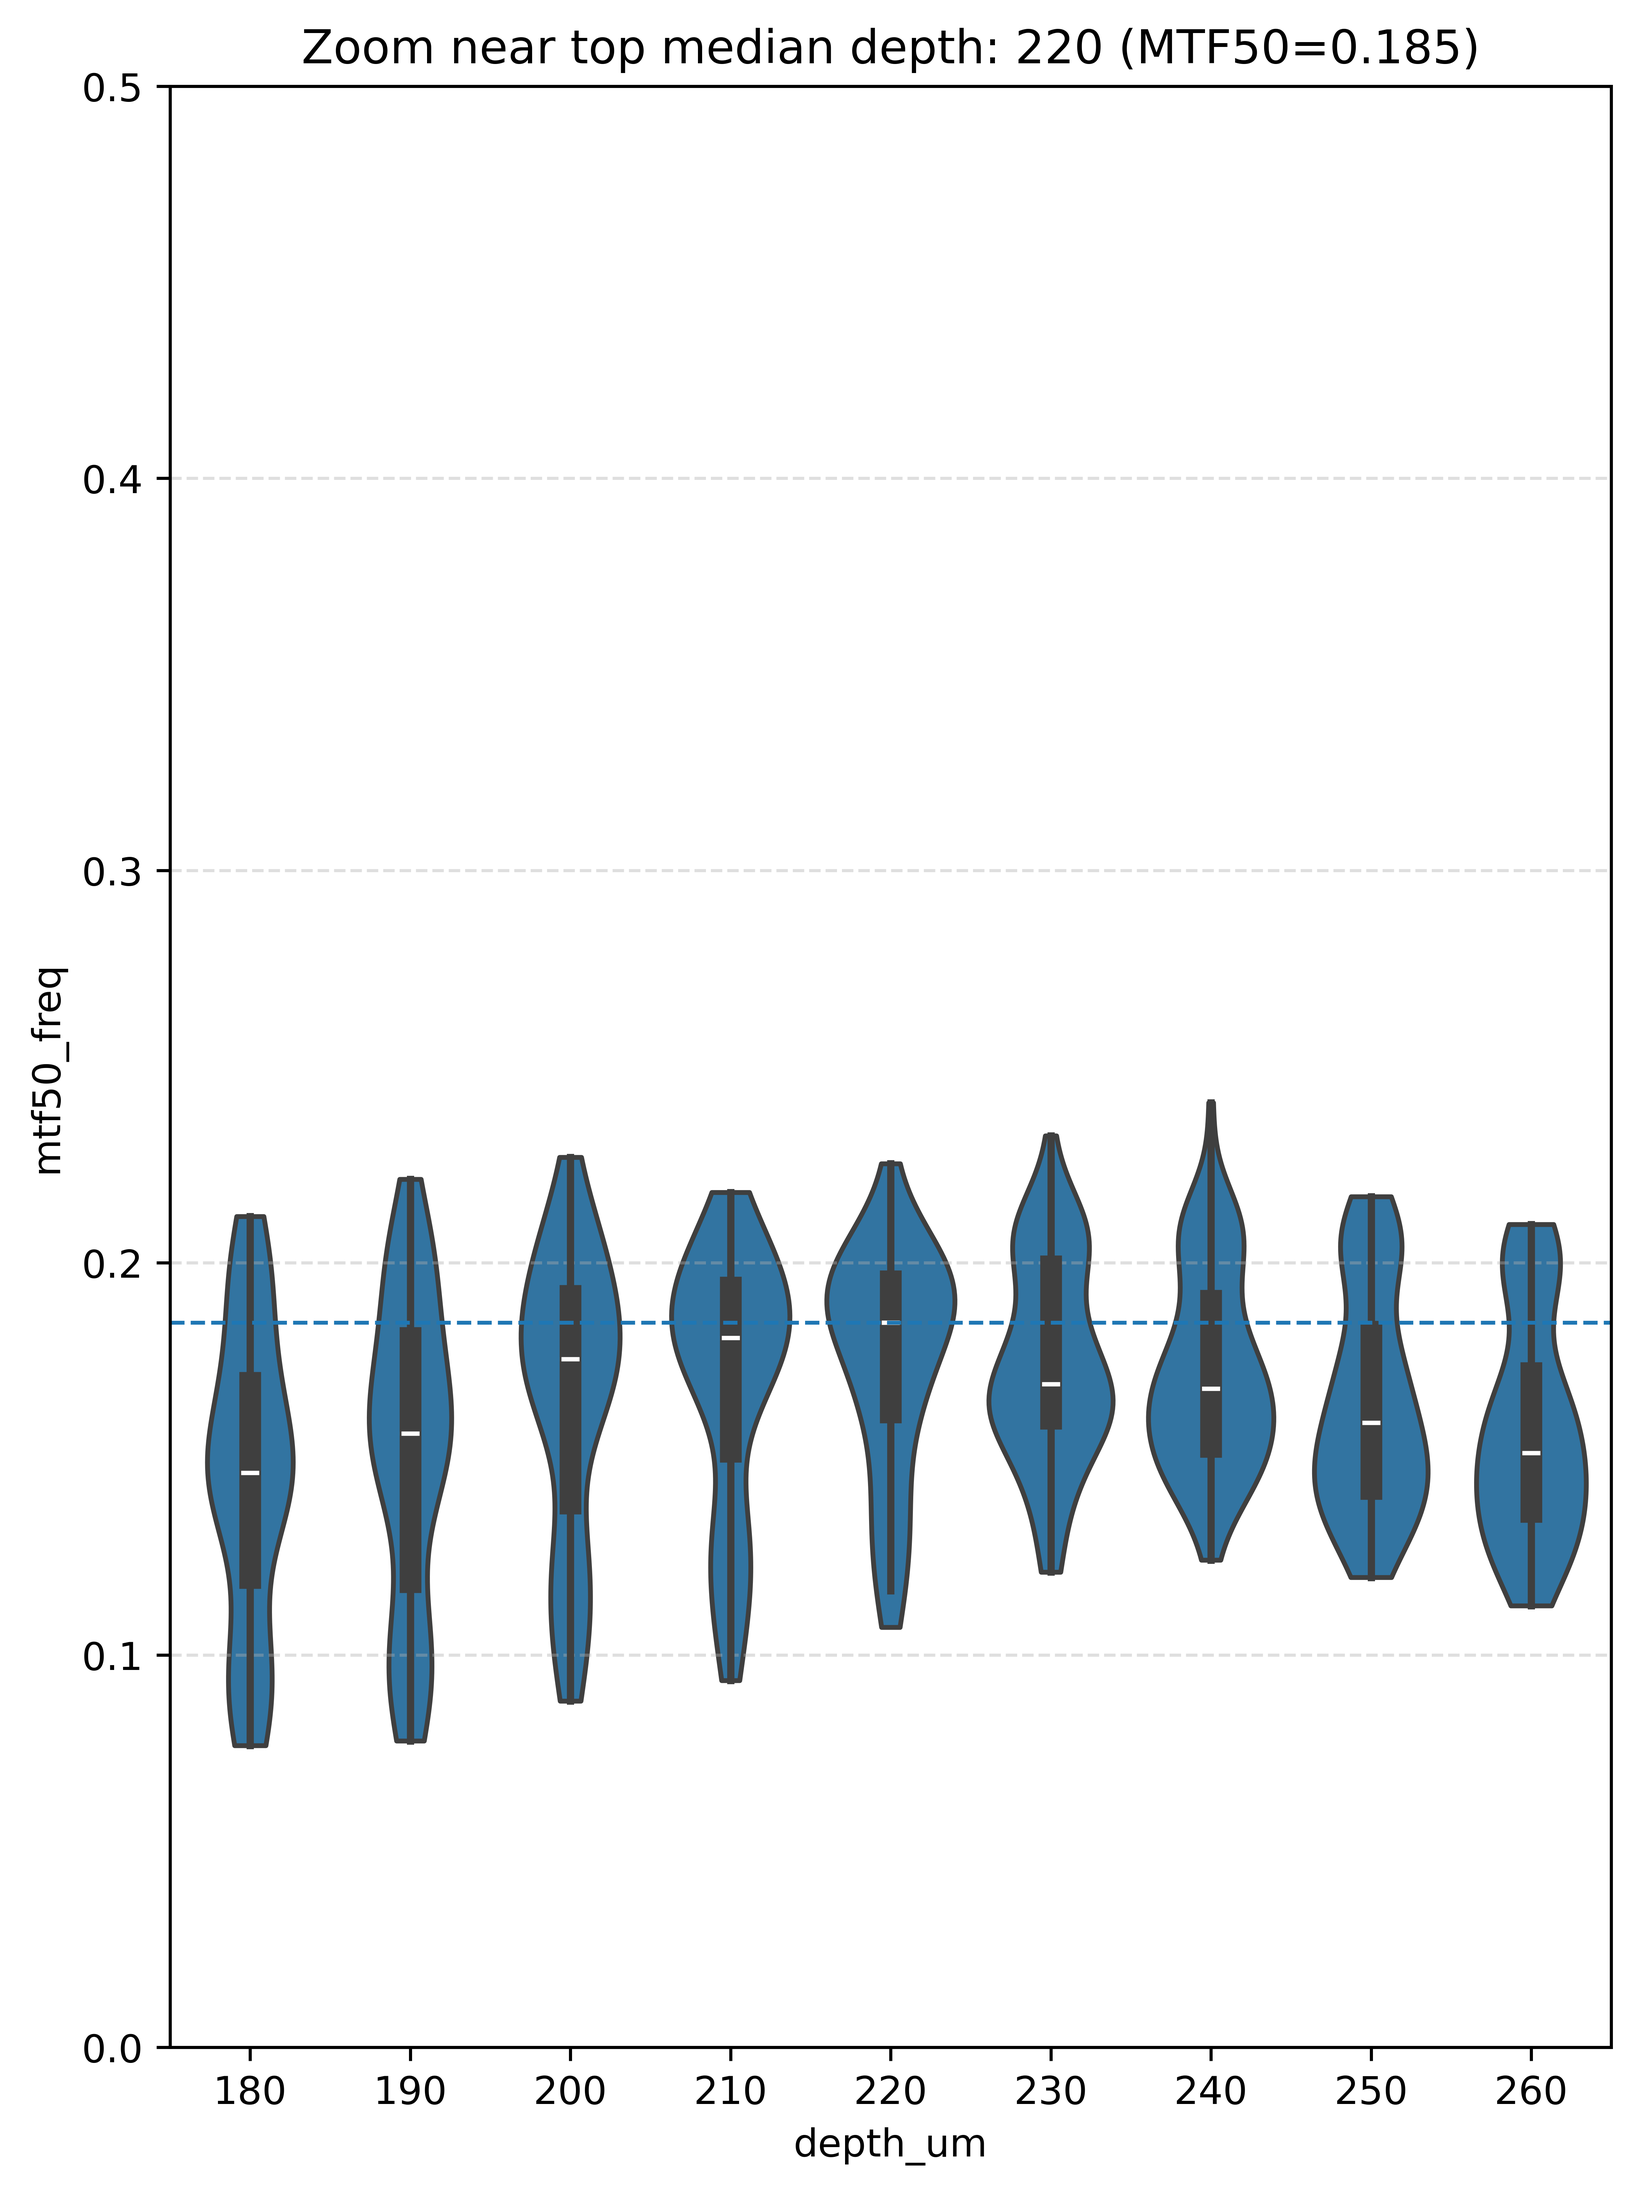
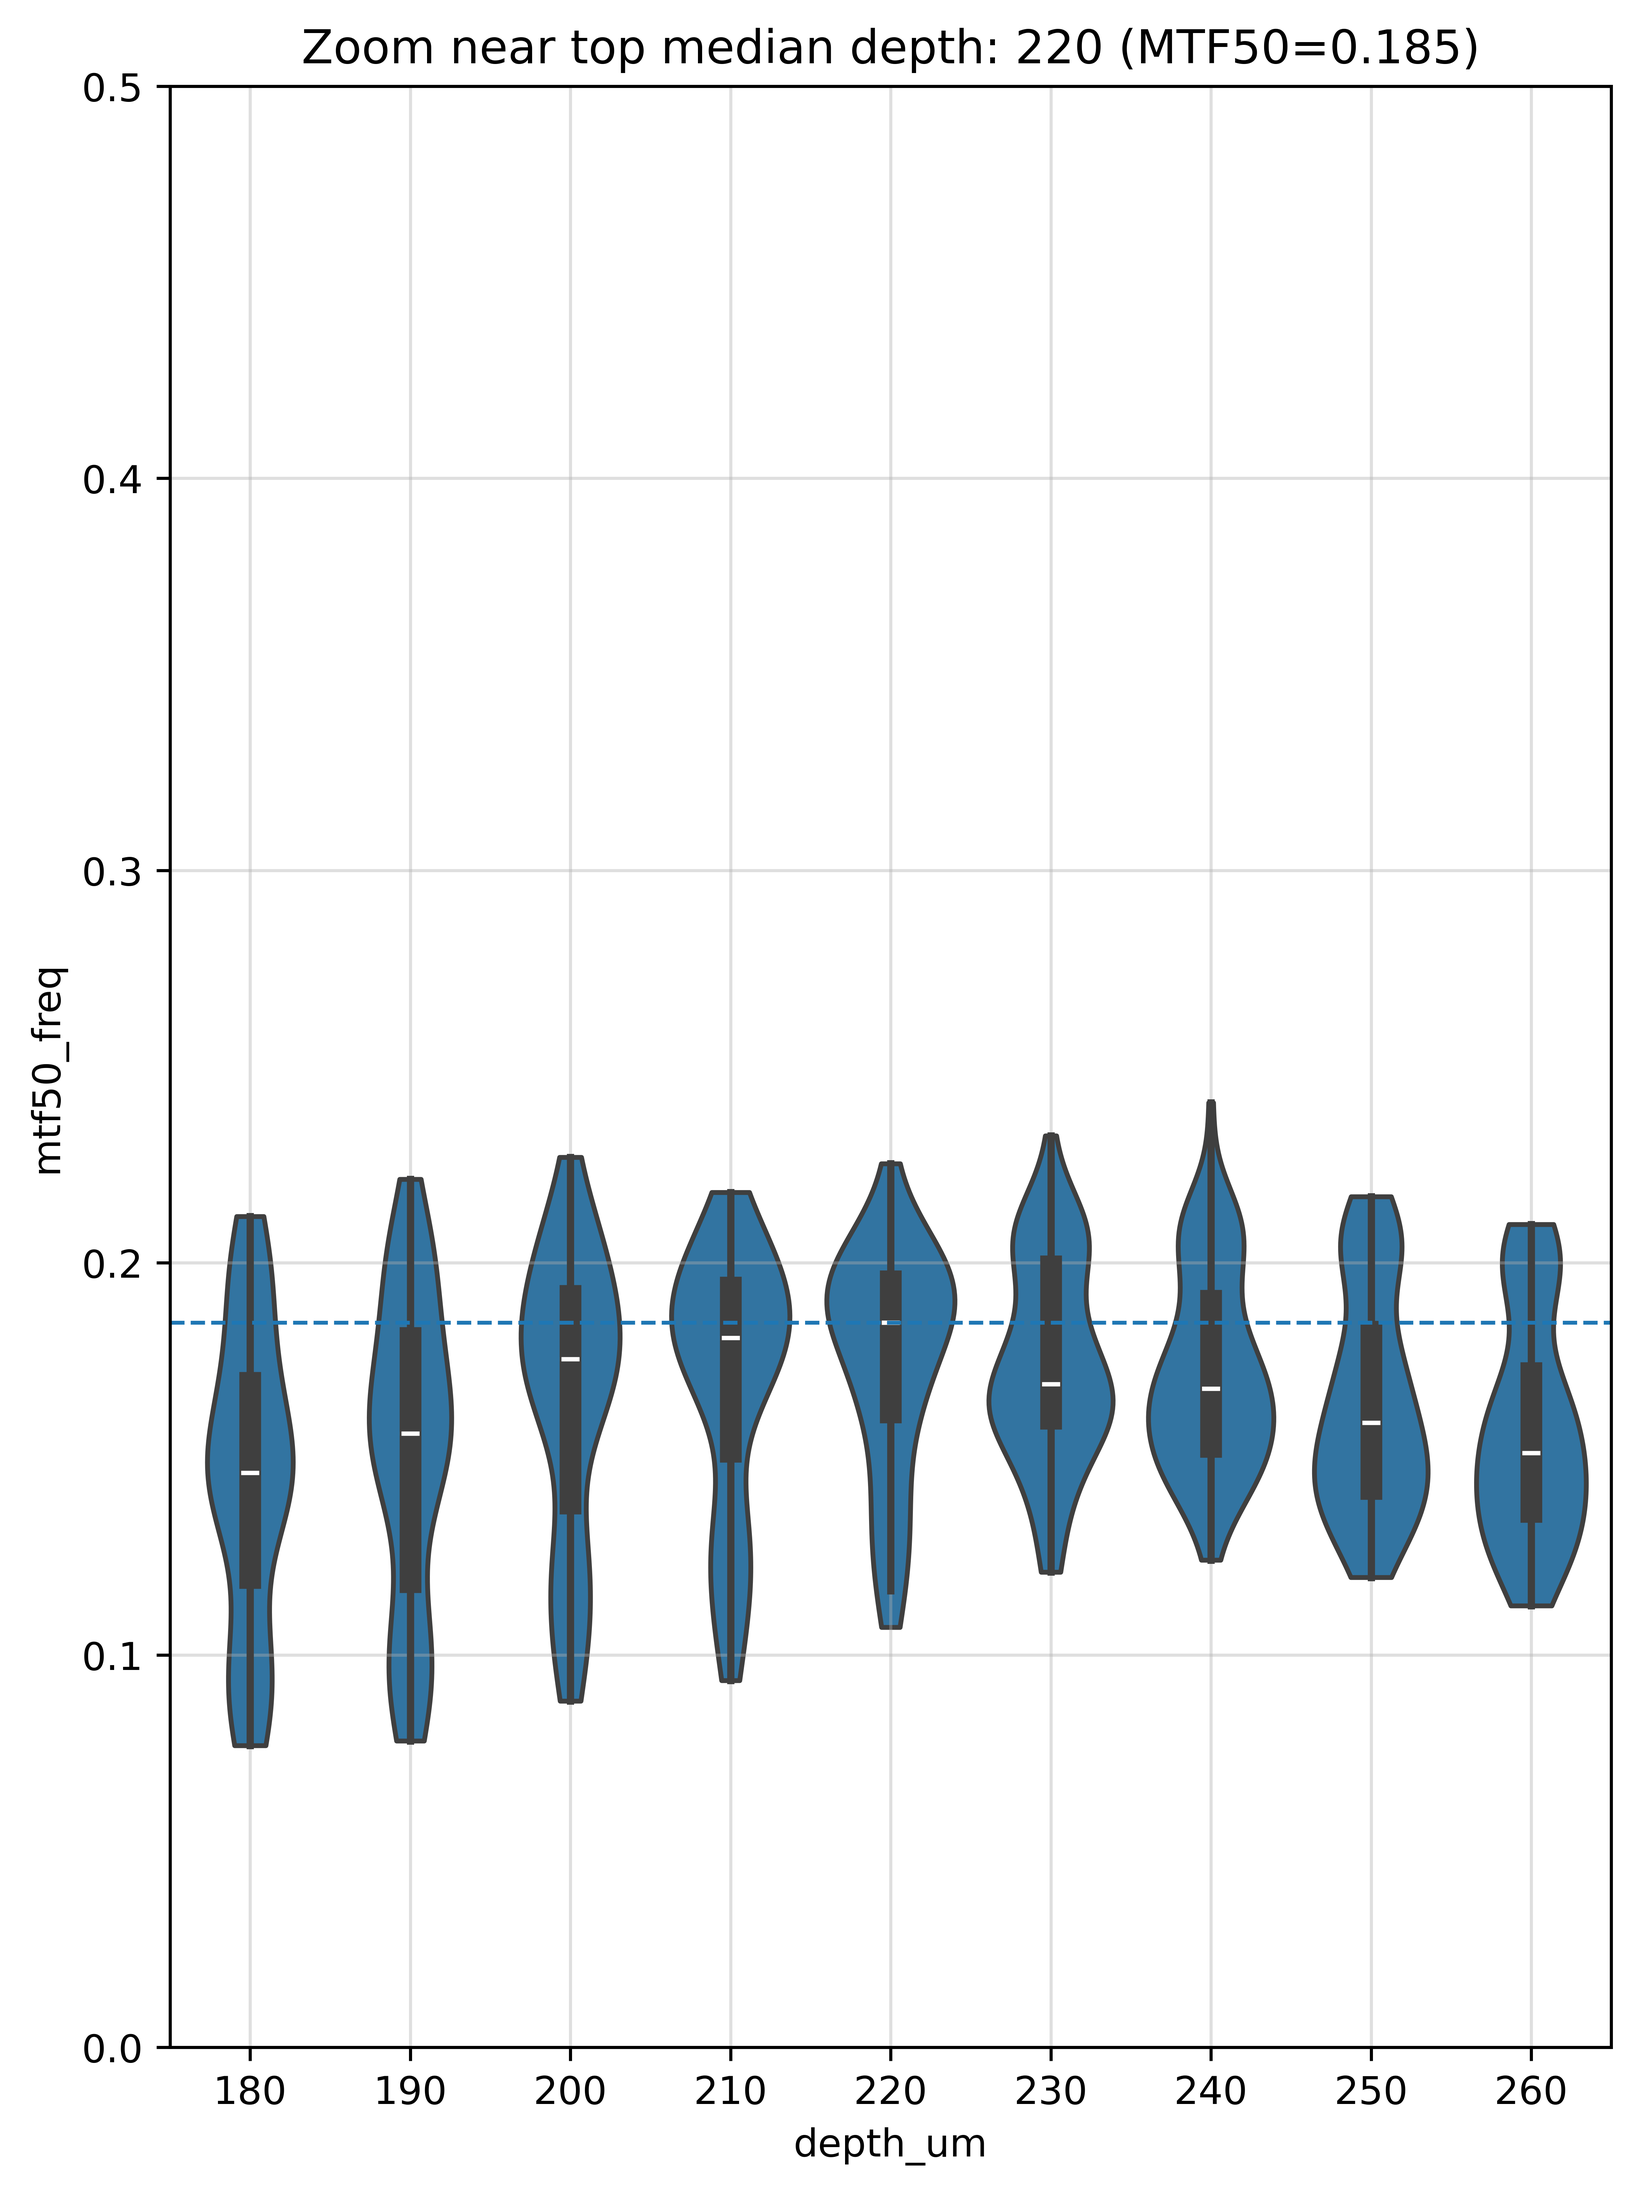
updated run_mtf
- added the box to the all violin plot
- add grid
- added the range of x ticks by 20

diff --git a/run_mtf.py b/run_mtf.py
@@ -238,7 +238,7 @@ def plot_mtf50_vs_depth(df: pd.DataFrame, out_base: Path,
     plt.figure()  # <-- default size
     plt.scatter(xs, d[mtf_col].values, s=10, alpha=0.6, edgecolors='none')
     ax = plt.gca()
-    xtick_indices = [i for i, v in enumerate(order) if (isinstance(v, (int, float)) and v % 50 == 0) or (isinstance(v, str) and v.isdigit() and int(v) % 50 == 0)]
+    xtick_indices = [i for i, v in enumerate(order) if (isinstance(v, (int, float)) and v % 20 == 0) or (isinstance(v, str) and v.isdigit() and int(v) % 20 == 0)]
     ax.set_xticks(xtick_indices)
     ax.set_xticklabels([str(order[i]) for i in xtick_indices], rotation=90)
     plt.xlabel('Depth (µm)')
@@ -271,12 +271,13 @@ def plot_mtf50_violins_with_topmedian_zoom(
     # Define order for x-axis based on unique depth values
     order = d[depth_col].astype(str).drop_duplicates().tolist()
     plt.figure(figsize=(max(6, len(np.unique(d[depth_col]))/2), 8), dpi=200) # Dynamic width based on number of unique depths
-    sns.violinplot(data=d, x=depth_col, y=mtf_col, order=order, cut=0, inner="quartile", scale="width", bw=0.2, width=0.9, linewidth=1)
+    sns.violinplot(data=d, x=depth_col, y=mtf_col, order=order, cut=0, inner="box", density_norm="width", bw_method=0.2, width=0.9, linewidth=1)
     ax = plt.gca()
-    xtick_indices = [i for i, v in enumerate(order) if (isinstance(v, (int, float)) and v % 50 == 0) or (isinstance(v, str) and v.isdigit() and int(v) % 50 == 0)]
+    xtick_indices = [i for i, v in enumerate(order) if (isinstance(v, (int, float)) and v % 20 == 0) or (isinstance(v, str) and v.isdigit() and int(v) % 20 == 0)]
     ax.set_xticks(xtick_indices)
     ax.set_xticklabels([str(order[i]) for i in xtick_indices], rotation=90)
     plt.tight_layout()
+    plt.grid(True, alpha=0.4)
     plt.savefig(out_base / all_outfile, dpi=800, bbox_inches="tight")
     plt.close()
 
@@ -309,7 +310,7 @@ def plot_mtf50_violins_with_topmedian_zoom(
     plt.axhline(top_median, ls="--", lw=1)
     plt.ylim(y_lo, y_hi)
     plt.xticks(rotation=90 if (order and len(order) > 12) else 0)
-    plt.grid(True, axis='y', linestyle='--', alpha=0.4)
+    plt.grid(True,alpha=0.4)
     plt.title(f"Zoom near top median depth: {top_depth} (MTF50={top_median:.3f})")
     plt.tight_layout()
     plt.savefig(out_base / zoom_outfile, dpi=800, bbox_inches="tight")
